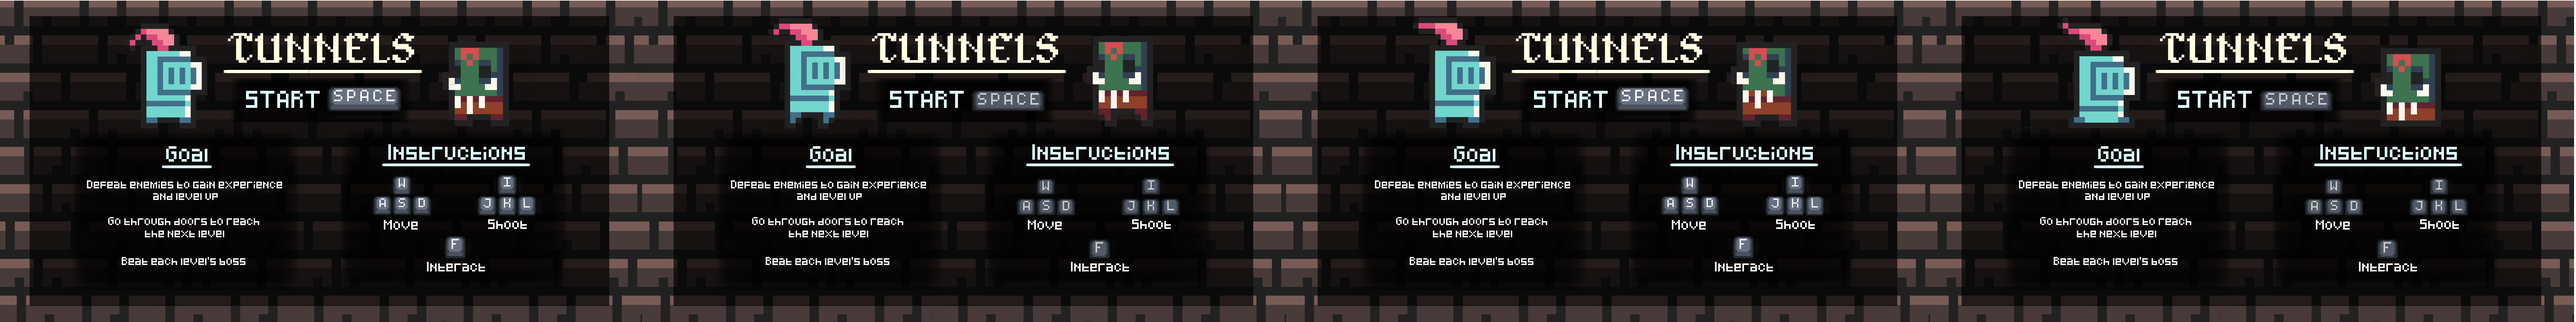
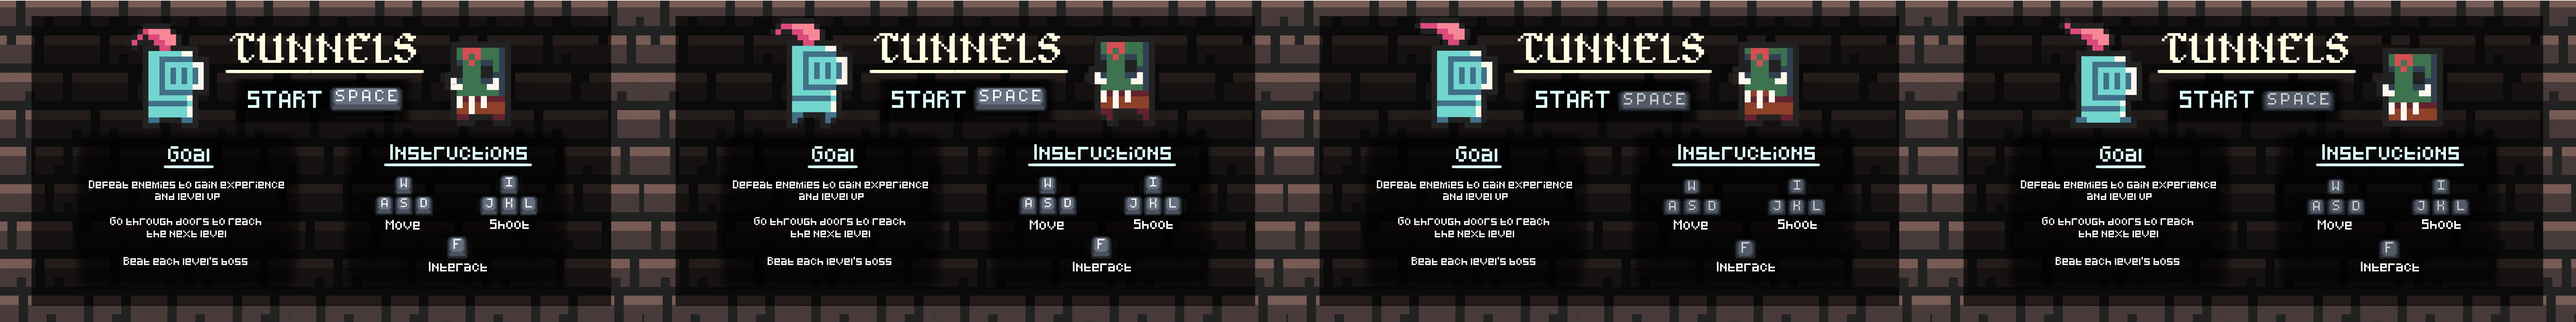
Fixed start screen

diff --git a/library/game.c b/library/game.c
@@ -368,7 +368,7 @@ const sprite_info_t SPRITE_INFOS[] = {
     {0, 0, 0, 0},
     {0, 0, 0, 0},
     "assets/ui/game_start_screen_full.png",
-    true, 0.125, 4
+    true, 0.1, 4
     },
     // 49 - PRESS_F UI
     {{0, 0, 600, 230},
